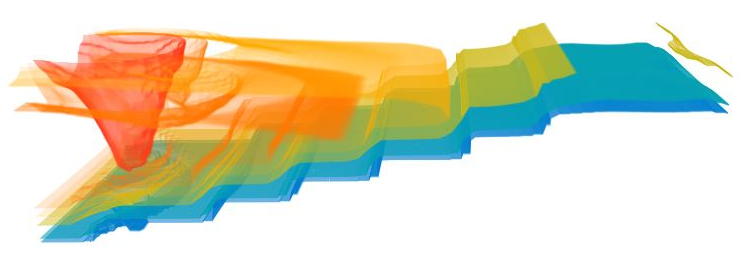
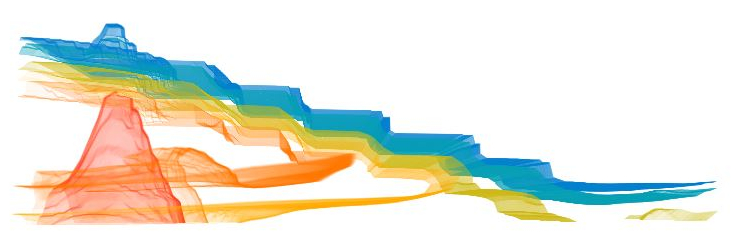
Update results

diff --git a/chapters/5_results.tex b/chapters/5_results.tex
@@ -178,12 +178,14 @@ A Figura~\ref{fig:r_engine_slice} exibe uma fatia do volume \quote{Engine}, onde
 %%%%%%%%%%%%%%%%%%%%%%%%%%%%%%%%% VREP SO 1 %%%%%%%%%%%%%%%%%%%%%%%%%%%%%%%%%%%%
 \begin{figure}[h]
 	\centering
-	\includegraphics[width=0.3\textwidth]{images/r_vrep_so_slice}
-	\caption{...}
+	\subfigure[]{
+		\frame{\includegraphics[width=0.3\textwidth]{images/r_vrep_so_slice}}
+	}
+	\caption{Fatia de um reservatório de petróleo cúbico.}
+	\label{fig:box_slice}
 \end{figure}
 
-	A figura acima mostra uma fatia da simulação numérica de um reservatório de petróleo do volume de um reservatório de petróleo 
-	O modelo em questão é um reservatório cúbico com um poço injetor no canto inferior esquerdo e um poço produtor no canto diagonal oposto
+	A figura acima mostra uma fatia da simulação de um reservatório de petróleo cúbico com um poço injetor no canto superior esquerdo e um produtor no canto diagonal oposto. A propriedade simulada é saturação de óleo.
 
 \begin{figure}[h]
 	\centering
@@ -198,18 +200,20 @@ A Figura~\ref{fig:r_engine_slice} exibe uma fatia do volume \quote{Engine}, onde
 		\includegraphics[width=0.35\textwidth]{images/r_vrep_so_mine}
 		\includegraphics[width=0.65\textwidth]{images/r_vrep_so_mine_ft}			\label{fig:r_vrep_mine}
 	}
-	\caption{Visualização e função de transferência do volume...}
+	\caption{Visualização e função de transferência do reservatório de petróleo cúbico.}
 	\label{fig:r_vrep}
 \end{figure}
 
-	Texto...
+	Como pode ser visto na Figura~\ref{fig:box_slice}, o reservatório possui duas fronteiras bem destacadas e uma mais fraca que são, respectivamente: cinza escuro-branco, branco-cinza claro e preto-cinza escuro. A Figura~\ref{fig:r_vrep} mostra que o método de \textit{Kindlmann e Durkin} identifica apenas a primeira e a terceira das fronteiras listadas, reforçando o quanto essa abordagem é dependente de $ h(v) = 0 $. Já o método descrito por esta dissertação identifica uma fronteira fraca a mais que o esperado. Porém, realça corretamente as duas mais fortes.
 
 %%%%%%%%%%%%%%%%%%%%%%%%%%%%%%%%% VREP SO 2 %%%%%%%%%%%%%%%%%%%%%%%%%%%%%%%%%%%%
 \begin{figure}[h]
 	\centering
-	\includegraphics[width=0.3\textwidth]{images/r_vrep_so_2_slice}
-	\caption{...}
+	\frame{\includegraphics[width=0.3\textwidth]{images/r_vrep_so_2_slice}}
+	\caption{Fatia de um reservatório de petróleo cúbico.}
 \end{figure}
+
+	A figura acima refere-se ao mesmo volume da Figura~\ref{fig:box_slice}, mas em outro momento da simulação. Agora há apenas uma fronteira forte: aquela que divide a região escura da região clara, na fatia do volume. Contudo, três fronteiras mais fracas ainda podem ser vistas.
 
 \begin{figure}[h]
 	\centering
@@ -224,59 +228,79 @@ A Figura~\ref{fig:r_engine_slice} exibe uma fatia do volume \quote{Engine}, onde
 		\includegraphics[width=0.35\textwidth]{images/r_vrep_so_2_mine}
 		\includegraphics[width=0.65\textwidth]{images/r_vrep_so_2_mine_ft}			\label{fig:r_vrep_2_mine}
 	}
-	\caption{Visualização e função de transferência do volume...}
+	\caption{Visualização e função de transferência do reservatório de petróleo cúbico.}
 	\label{fig:r_vrep_2}
 \end{figure}
 
-	Texto...
+	Como mostra a Figura~\ref{fig:r_vrep_2} acima, nenhum método foi capaz de realçar todas as fronteiras. Utilizando \textit{Kindlmann e Durkin} obteve-se as fronteiras $ 1 $ e $ 4 $ enquanto com o método proposto nesta dissertação obteve-se as fronteiras $ 1 $, $ 3 $ e $ 4 $. O motivo pelo qual $ 4 $ é realçada com opacidade muito baixa é a estreita relação entre opacidade e amplitude de $ -h(v) $.
 	
 %%%%%%%%%%%%%%%%%%%%%%%%%%%%%%%%%% BOX SO %%%%%%%%%%%%%%%%%%%%%%%%%%%%%%%%%%%%%
 \begin{figure}[h]
 	\centering
-	\includegraphics[width=0.3\textwidth]{images/r_box_so_slice}
-	\caption{...}
+	\frame{\includegraphics[width=0.5\textwidth]{images/r_box_so_slice}}
+	\caption{Fatia do volume \quote{Caixa de sapato} com a propriedade saturação de óleo.}
 \end{figure}
+
+	A figura acima mostra uma fatia da simulação de um reservatório de petróleo retangular com um poço injetor à superior e um produtor à direita, chamado \quote{Caixa de sapato}. A propriedade simulada é saturação de óleo.
 
 \begin{figure}[h]
 	\centering
-	\subfigure[Método de \textit{Kindlmann e Durkin}.]
+	\subfigure[Função de transferência pelo método de \textit{Kindlmann e Durkin}.]
 	{
-		\includegraphics[width=0.35\textwidth]{images/r_box_so_kd}
-		\includegraphics[width=0.65\textwidth]{images/r_box_so_kd_ft}
+		\includegraphics[width=0.7\textwidth]{images/r_box_so_kd_ft}
+		\label{fig:r_box_so_kd_ft}
+	}
+	\subfigure[Visualização pela FT do método de \textit{Kindlmann e Durkin}.]
+	{
+		\includegraphics[width=0.7\textwidth]{images/r_box_so_kd}
 		\label{fig:r_box_so_kd}
 	}
-	\subfigure[Método proposto.]
+	\subfigure[Função de transferência pelo método proposto.]
 	{
-		\includegraphics[width=0.35\textwidth]{images/r_box_so_mine}
-		\includegraphics[width=0.65\textwidth]{images/r_box_so_mine_ft}			\label{fig:r_box_so_mine}
+		\includegraphics[width=0.7\textwidth]{images/r_box_so_mine_ft}			\label{fig:r_box_so_mine_ft}
 	}
-	\caption{Visualização e função de transferência do volume...}
+	\subfigure[Visualização pela FT do método proposto.]
+	{
+		\includegraphics[width=0.7\textwidth]{images/r_box_so_mine}	\label{fig:r_box_so_mine}
+	}
+	\caption{Visualização e função de transferência do volume \quote{Caixa de sapato} com a propriedade saturação de óleo.}
 	\label{fig:r_box_so}
 \end{figure}
 
-Texto...
+	No lado esquerdo da fatia do volume em questão é possível perceber um cone, com sua base voltada para baixo. A parte interna do cone é preta e faz fronteira com seu contorno que possui uma tonalidade de cinza claro. Este contorno por sua vez, faz fronteira com o resto do volume em um tom de cinza mais escuro. Então, através da Figura~\ref{fig:r_box_so} observa-se que o método proposto por esta dissertação destaca a fronteira interna do cone (a mais forte), enquanto o método de \textit{Kindlmann e Durkin} realça a fronteira externa do cone.
+	
+	Como esse volume é pequeno, falta resolução em sua fatia para discutir qual das fronteiras amarelas é a mais adequada. Contudo, pode-se destacar que ambos os métodos destacam fronteiras mais fracas distintas.
 
 %%%%%%%%%%%%%%%%%%%%%%%%%%%%%%%%%% BOX SG %%%%%%%%%%%%%%%%%%%%%%%%%%%%%%%%%%%%%
 \begin{figure}[h]
 	\centering
-	\includegraphics[width=0.3\textwidth]{images/r_box_sg_slice}
-	\caption{...}
+	\frame{\includegraphics[width=0.5\textwidth]{images/r_box_sg_slice}}
+	\caption{Fatia do volume \quote{Caixa de sapato} com a propriedade saturação de gás.}
 \end{figure}
+
+	A figura acima mostra uma fatia do volume \quote{Caixa de sapato} com a propriedade saturação de gás.
 
 \begin{figure}[h]
 	\centering
-	\subfigure[Método de \textit{Kindlmann e Durkin}.]
+	\subfigure[Função de transferência pelo método de \textit{Kindlmann e Durkin}.]
 	{
-		\includegraphics[width=0.35\textwidth]{images/r_box_sg_kd}
-		\includegraphics[width=0.65\textwidth]{images/r_box_sg_kd_ft}
+		\includegraphics[width=0.7\textwidth]{images/r_box_sg_kd_ft}
+		\label{fig:r_box_sg_kd_ft}
+	}
+	\subfigure[Visualização pela FT do método de \textit{Kindlmann e Durkin}.]
+	{
+		\includegraphics[width=0.7\textwidth]{images/r_box_sg_kd}
 		\label{fig:r_box_sg_kd}
 	}
-	\subfigure[Método proposto.]
+	\subfigure[Função de transferência pelo método proposto.]
 	{
-		\includegraphics[width=0.35\textwidth]{images/r_box_sg_mine}
-		\includegraphics[width=0.65\textwidth]{images/r_box_sg_mine_ft}			\label{fig:r_box_sg_mine}
+		\includegraphics[width=0.7\textwidth]{images/r_box_sg_mine_ft}			\label{fig:r_box_sg_mine_ft}
 	}
-	\caption{Visualização e função de transferência do volume...}
+	\subfigure[Visualização pela FT do método proposto.]
+	{
+		\includegraphics[width=0.7\textwidth]{images/r_box_sg_mine}	\label{fig:r_box_sg_mine}
+	}
+	\caption{Visualização e função de transferência do volume \quote{Caixa de sapato} com a propriedade saturação de gás.}
 	\label{fig:r_box_sg}
 \end{figure}
 
@@ -285,25 +309,41 @@ Texto...
 %%%%%%%%%%%%%%%%%%%%%%%%%%%%%%%%%% BOX SW %%%%%%%%%%%%%%%%%%%%%%%%%%%%%%%%%%%%%
 \begin{figure}[h]
 	\centering
-	\includegraphics[width=0.3\textwidth]{images/r_box_sw_slice}
-	\caption{...}
+	\frame{\includegraphics[width=0.5\textwidth]{images/r_box_sw_slice}}
+	\caption{Fatia do volume \quote{Caixa de sapato} com a propriedade saturação de água.}
 \end{figure}
 
 \begin{figure}[h]
 	\centering
-	\subfigure[Método de \textit{Kindlmann e Durkin}.]
+	\subfigure[Função de transferência pelo método de \textit{Kindlmann e Durkin}.]
 	{
-		\includegraphics[width=0.35\textwidth]{images/r_box_sw_kd}
-		\includegraphics[width=0.65\textwidth]{images/r_box_sw_kd_ft}
+		\includegraphics[width=0.7\textwidth]{images/r_box_sw_kd_ft}
+		\label{fig:r_box_sw_kd_ft}
+	}
+	\subfigure[Visualização pela FT do método de \textit{Kindlmann e Durkin}.]
+	{
+		\includegraphics[width=0.7\textwidth]{images/r_box_sw_kd}
 		\label{fig:r_box_sw_kd}
 	}
-	\subfigure[Método proposto.]
+	\subfigure[Função de transferência pelo método proposto.]
 	{
-		\includegraphics[width=0.35\textwidth]{images/r_box_sw_mine}
-		\includegraphics[width=0.65\textwidth]{images/r_box_sw_mine_ft}			\label{fig:r_box_sw_mine}
+		\includegraphics[width=0.7\textwidth]{images/r_box_sw_mine_ft}			\label{fig:r_box_sw_mine_ft}
 	}
-	\caption{Visualização e função de transferência do volume...}
+	\subfigure[Visualização pela FT do método proposto.]
+	{
+		\includegraphics[width=0.7\textwidth]{images/r_box_sw_mine}	\label{fig:r_box_sw_mine}
+	}
+	\caption{Visualização e função de transferência do volume \quote{Caixa de sapato} com a propriedade saturação de água.}
 	\label{fig:r_box_sw}
+\end{figure}
+
+Texto...
+
+%%%%%%%%%%%%%%%%%%%%%%%%%%%%%%%%%% Pituba %%%%%%%%%%%%%%%%%%%%%%%%%%%%%%%%%%%%%
+\begin{figure}[h]
+	\centering
+	\includegraphics[width=0.7\textwidth]{images/pituba}
+	\caption{...}
 \end{figure}
 
 Texto...
